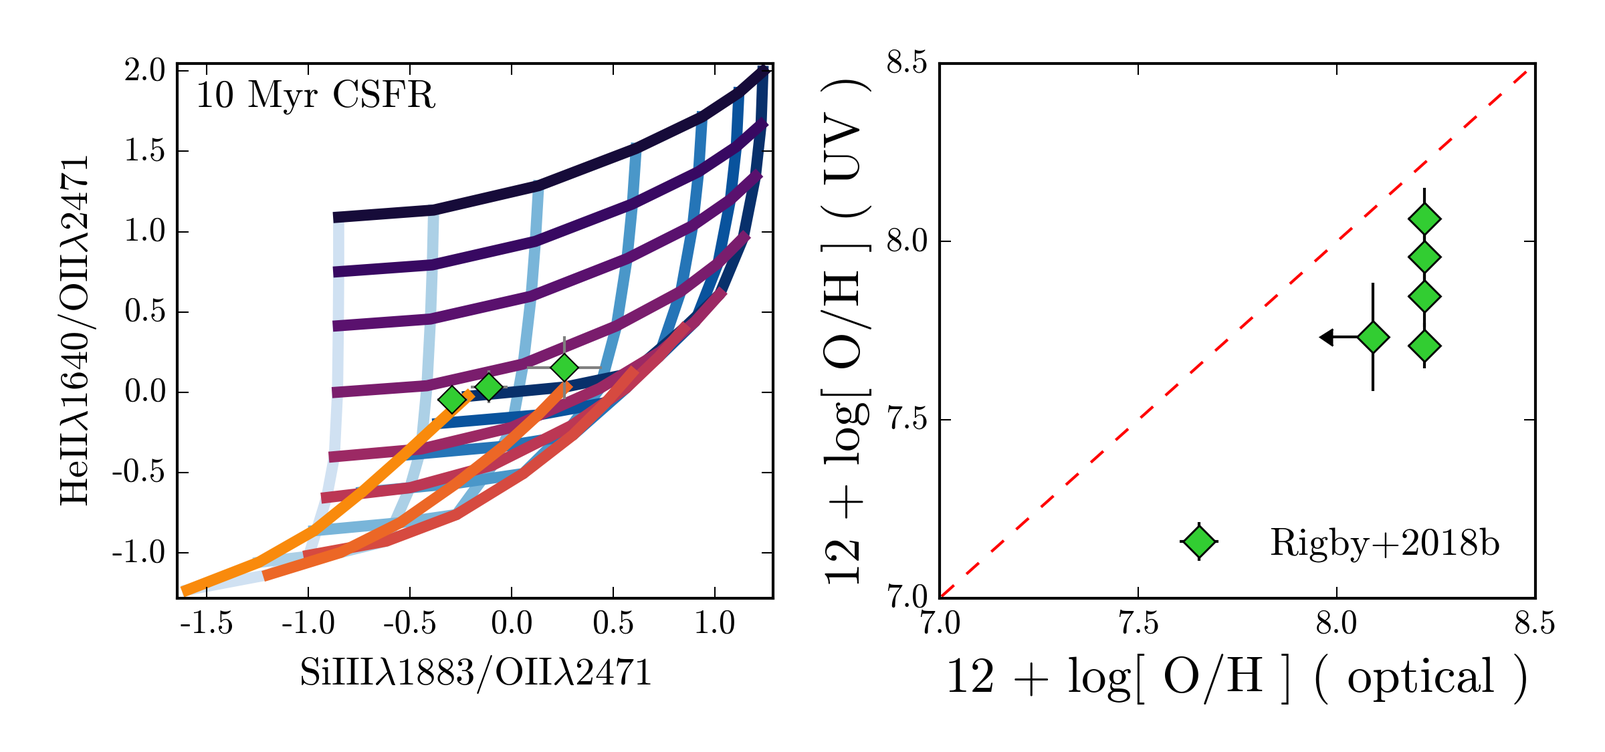
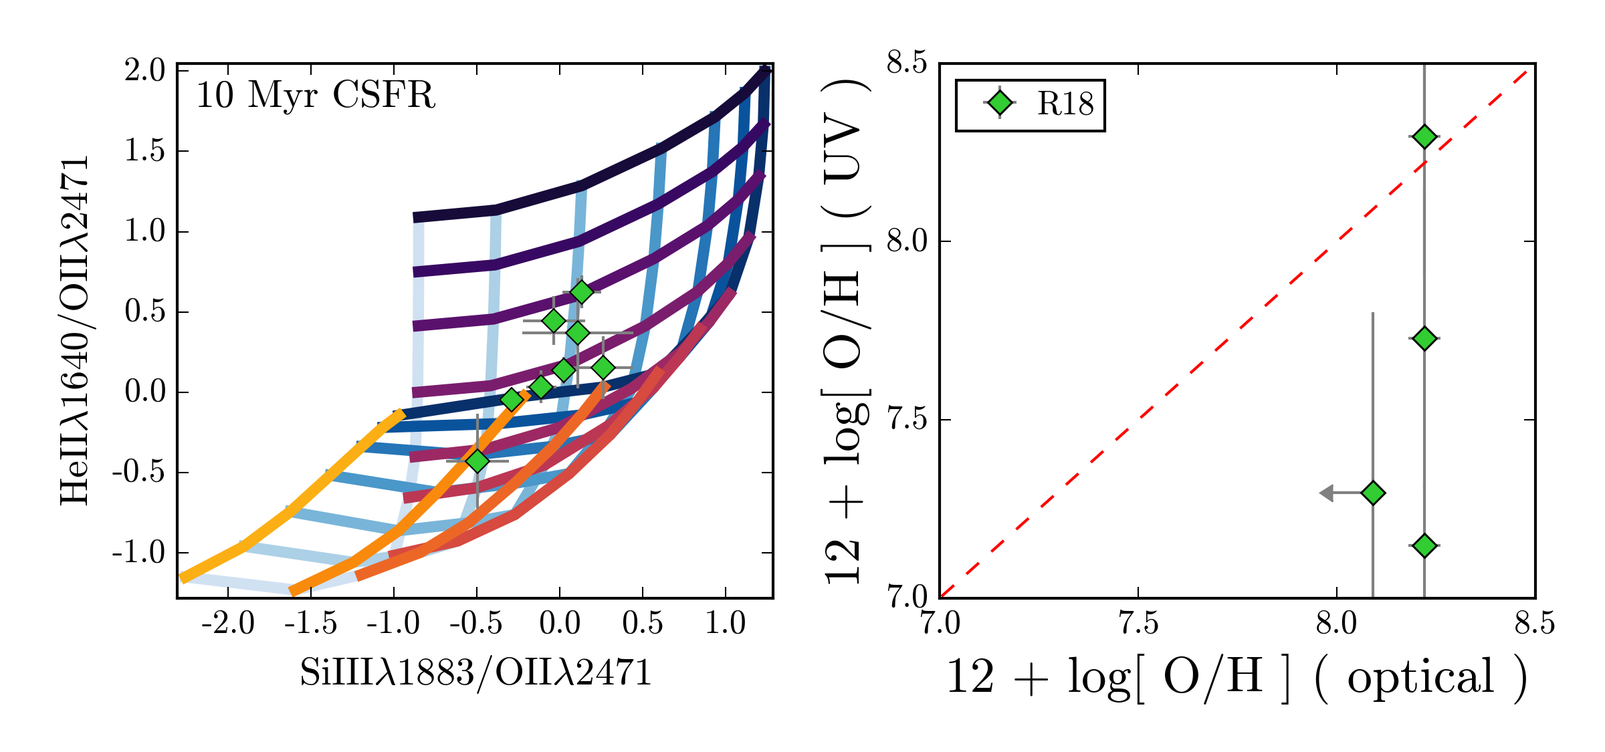
Updates from ShareLaTeX

diff --git a/main.tex b/main.tex
@@ -146,6 +146,7 @@ We use the MESA Isochrones \& Stellar Tracks \citep[MIST;][]{Dotter+2016, Choi+2
 We combine the MIST tracks with a high resolution theoretical spectral library (C3K; Conroy, Kurucz, Cargile, Castelli, \emph{in prep}) based on Kurucz stellar atmosphere and spectral synthesis routines \citep[ATLAS12 and SYNTHE,][]{Kurucz+2005}. The C3K library is supplemented with alternative libraries for very hot stars and stars in rapidly evolving evolutionary phases. For main sequence stars with temperatures above 25,000$\,$K (O- and B-type stars) we use spectra from M. Ng, G. Taylor \& J.J. Eldridge (priv. comm),  as described in \citet{Eldridge+2017}, computed using WM-Basic \citep{Pauldrach+2001}. For WR stars, we use the spectral library from \citet{Smith+2002} using CMFGEN \citep{Hillier+2001}.
 
 We adopt a Kroupa initial mass function \citep[IMF;][]{Kroupa+2001} with an upper and lower mass limit of 120\Msun and 0.08\Msun, respectively. For all other SPS parameters, we use the default parameters in \FSPS\footnote{GitHub commit hash \texttt{4e1b3f5}}.
+% obtained with command: git rev-parse --short HEAD
 
 \subsection{Nebular Model} \label{sec:model:neb}
 
@@ -237,7 +238,7 @@ assuming a negligible contribution from O$^{+++}$ ions, which is appropriate at 
 \paragraph{Direct-\Te metallicities in the UV}
 The direct-temperature method relies on the use of collisionally excited transitions with a difference in energy of order $k T_{e}$. The two transitions are populated by electron-ion collisions, and the relative population in each energy level will thus depend directly on the electron temperature of the gas. In the optical, the temperature leverage comes from the combination of the ${}^1 \mathrm{S}_0$ to ${}^1 \mathrm{D}_2$ transition ($\lambda$4363) with the  ${}^1 \mathrm{D}_2$ to ${}^3 \mathrm{P}_2$ ($\lambda$5007) transition (often with the addition of the ${}^1\mathrm{D}_2$ to $^3\mathrm{P}_1$ transition at $\lambda$4959).
 
-Similar transitions exist in the UV portion of the spectrum, making it possible to derive direct method metallicities using only UV emission lines. In the UV the temperature leverage comes from the combination of the ${}^5 \mathrm{S}_2 \rightarrow {}^3 \mathrm{P}_2$ ($\lambda$1666) and the ${}^1 \mathrm{S}_0 \rightarrow {}^3 \mathrm{P}_1$ ($\lambda$2321) transition. For the O$^{+}$ zone, the temperature-sensitive transitions are the ${}^2 \mathrm{P}_{1/2} \rightarrow {}^4 \mathrm{S}_{3/2}$ ($\lambda$2471) and the ${}^2 \mathrm{D}_{3/2} \rightarrow {}^4 \mathrm{S}_{3/2}$ ($\lambda$3727) transition. It is worth noting that the the \oii$\,\lambda2471$ and \oiii$\,\lambda2321$ lines are very weak (\XXX $<{\sim}10$\% of the $\lambda$3727 line strength), and have only been detected in a handful of galaxies.
+Similar transitions exist in the UV portion of the spectrum, making it possible to derive direct method metallicities using only UV emission lines. In the UV the temperature leverage comes from the combination of the ${}^5 \mathrm{S}_2 \rightarrow {}^3 \mathrm{P}_2$ ($\lambda$1666) and the ${}^1 \mathrm{S}_0 \rightarrow {}^3 \mathrm{P}_1$ ($\lambda$2321) transition. For the O$^{+}$ zone, the temperature-sensitive transitions are the ${}^2 \mathrm{P}_{1/2} \rightarrow {}^4 \mathrm{S}_{3/2}$ ($\lambda$2471) and the ${}^2 \mathrm{D}_{3/2} \rightarrow {}^4 \mathrm{S}_{3/2}$ ($\lambda$3727) transition. It is worth noting that the the \oii$\,\lambda2471$ and \oiii$\,\lambda2321$ lines are very weak (\oii$\,\lambda2471$ is ${\sim}6$\% of the \oii$\lambda$3727 line strength and \oiii$\,\lambda2321$ is ${\sim}2$\% of the \oiii$\lambda$4959 line strength), and have only been detected in a handful of galaxies.
 
 Using the same methodology as for the optical direct-temperature method, we must find temperatures and densities for the O$^{+}$ and O$^{++}$ zones. There are a number of density-sensitive line combinations in the UV, however, the brightest line combinations, \ciii$\lambda$1906,1909 and \SiuIII$\lambda$1883,1892 are not sensitive to densities below $\sim10^3\,$cm$^{-3}$. We assume $n_{\mathrm{e}} = 100$ cm$^{-3}$, the true density of the \Cloudy models. We note, however, that the use of densities calculated from \ciii and \SiuIII ratios changes the resultant oxygen abundance by less than 0.1 dex, and is thus not a significant source of error.
 
@@ -306,9 +307,11 @@ We compare our UV and optical models to two observational samples: (1) local gal
 
 \subsection{Local blue compact dwarf galaxies}\label{sec:data:BCDs}
 
-\citet{Berg+2016} presented both UV and optical spectra for a sample of 7 nearby, low-metallicity, high-ionization blue compact dwarf galaxies (BCDs). We include 13 additional galaxies from the upcoming Berg et al., 2018 (\emph{in prep}, priv. comm.) paper. The galaxies are nearby ($0.003 < z < 0.040$), UV-bright ($m_{FUV} \leq 19.5$ AB), compact (D $< 5$''), and low-metallicity ($7.2 \leq 12 + \log(O/H) \leq 8.0$). These galaxies have relatively low masses (${\sim}10^7$\Msun) and high sSFRs (${\sim}10^{-8}$ yr$^{-1}$). All of the galaxies in the sample have existing SDSS optical spectra with auroral line detections for direct-method calculations of the nebular temperature, density, and metallicity.
+\citet{Berg+2016} presented both UV and optical spectra for a sample of 7 nearby, low-metallicity, high-ionization blue compact dwarf galaxies (BCDs). We include 13 additional galaxies from the upcoming Berg et al., 2018 (\emph{in prep}, priv. comm.) paper. The galaxies are nearby ($0.003 < z < 0.040$), UV-bright ($m_{FUV} \leq 19.5$ AB), compact (D $< 5$''), and low-metallicity ($7.2 \leq 12 + \logOH \leq 8.0$). These galaxies have relatively low masses (${\sim}10^7$\Msun) and high sSFRs (${\sim}10^{-8}$ yr$^{-1}$). All of the galaxies in the sample have existing SDSS optical spectra with auroral line detections for direct-method calculations of the nebular temperature, density, and metallicity.
 
 \citet{Berg+2016} obtained UV spectra with the Cosmic Origins Spectrograph (COS) on the Hubble Space Telescope (HST). The UV spectra cover roughly $1300-2000$\ang, and \citet{Berg+2016} includes emission line flux measurements for \civ$\lambda$1548,1551, \heii$\lambda$1640, \oiii$\lambda$1661,1666, \SiuIII$\lambda$1883,1892, and \ciii$\lambda$1906,1909.
+
+\paragraph{Other local BCD observations:} Where possible, we also compare our models to the sample of local BCDs from \citet{Senchyna+2017}, which have similar properties to the \citet{Berg+2016} galaxies. However, the COS observations used an alternative grating for increased spectral resolution at the expense of wavelength coverage. Thus, there are fewer emission lines observed in the \citet{Senchyna+2017} sample, but the higher spectral resolution allows for the separation of broad and narrow emission line components, when present.
 
 \subsection{High-redshift star-forming galaxies}\label{sec:data:mage}
 
@@ -320,6 +323,8 @@ The spectra cover the wavelength range ($3200 < \lambda < 8280$\ang in the obser
 Rest-frame optical spectra are available for 7 of the 15 galaxies, from Keck NIRSPEC \citep{Rigby+2011}, Keck OSIRIS \citep{Wuyts+2014} and HST/WFC3 \citep{Whitaker+2014}. Optical metallicity estimates for these seven galaxies are compiled in Table 2 of \citet{Rigby+2018b}. The metallicities are calculated from strong line methods, either the $R_{23}$ or O3N2 indices \citep{Pettini+2004} and corrected to the PP04-N2 system following \citet{Kewley+2008}. In several cases, the optical information only provides upper limits on the metallicity based on the \nii/\ha line ratio.
 
 Two of the \mage galaxies are suspected to harbor a low luminosity AGN (SGAS J224324.2 − 093508 and SGAS 003341.5 + 024217); we do not include these galaxies in our analysis, bringing the total number of objects in the high-redshift sample to $N=13$.
+
+\paragraph{Other observations of high redshift galaxies:} When possible, we also compare our models to the lensed galaxies from \citet{Stark+2014}, \citet{Erb+2010}, and \citet{Christensen+2012}. We include a comparison with the stacked spectrum of lensed galaxies from \citet{Steidel+2016}, however, we note that it is much more difficult to interpret the metallicity derived from a stacked spectrum.
 
 \subsubsection{Emission line measurements}
 
@@ -336,7 +341,7 @@ For each emission line flux, $f_{\mathrm{line}}$, we determine the significance 
 
 In this section, we present several UV diagnostic diagrams and use them to derive metallicities. We then compare these UV metallicities to optical metallicities and evaluate the utility of each diagnostic. Before discussing the results from the various diagnostic diagrams, we briefly describe the method used to derive metallicities from each diagnostic grid. 
 
-Each galaxy observations is matched to the surface of the model diagnostic grid by smoothly interpolating between model grid points in ionization parameter and metallicity. We use a Monte-Carlo method to calculate UV metallicities and errors. For each object we draw $N=1000$ samples from a gaussian distribution centered at the observed $x$,$y$ coordinate with width equal to the reported errors, and re-measure the metallicity at each of these new coordinates. We use the median and the standard deviation of the metallicity distribution to estimate the metallicity and error in metallicity for each object, respectively. 
+Each galaxy observation is matched to the surface of the model diagnostic grid by smoothly interpolating between model grid points in ionization parameter and metallicity. We use a Monte-Carlo method to calculate UV metallicities and errors. For each object we draw $N=1000$ samples from a gaussian distribution centered at the observed $x$,$y$ coordinate with width equal to the reported errors, and re-measure the metallicity at each of these new coordinates. We use the median and the standard deviation of the metallicity distribution to estimate the metallicity and error in metallicity for each object, respectively. 
 
 This metallicity corresponds to the absolute gas phase abundance from \Cloudy, which must be rescaled before it can be accurately compared to the optical metallicity. For the \citet{Berg+2016} galaxies with optical direct-\Te metallicities, we apply the direct-\Te correction described in \S\ref{sec:model:corr}. For the \mage galaxies with optical metallicities calculated from empirically calibrated strong line methods, we apply the relevant strong line correction described in \S\ref{sec:model:corr}. In general, the metallicity correction changes the UV-derived abundance by $<0.1$\,dex at $12 + \logOH < 8$, and by ${\sim}0.1$\,dex at $8.0 < 12 + \logOH < 8.5$.
 
@@ -348,17 +353,15 @@ In the left panel of Fig.~\ref{fig:UVC} we show the Si3C3-O3C3 diagnostic diagra
 
 We use the Si3C3-O3C3 diagnostic grid to derive UV metallicities, which we compare to the optical metallicities in the right panel of Fig.~\ref{fig:UVC}. The optically-derived direct-\Te metallicity from \citet{Berg+2016} is shown on the $x$-axis, and the UV metallicity derived using the Si3C3-O3C3 is shown on the $y$-axis. For the \mage galaxies, the $x$-axis shows the optical metallicity from O3N3 or $R_{23}$.
 
-The UV and optical metallicities agree within error for ${\sim}60\%$ of the \citet{Berg+2016} galaxies. While the UV-predicted metallicities are largely consistent with the optical, the range in UV metallicities is much larger than the range in optical metallicities. Additionally, there are several objects where the UV metallicity catastrophically fails to match the optical metallicity. These failures do not seem to have an overall bias toward higher or lower metallicities.
+The UV and optical metallicities agree within error for ${\sim}80\%$ of the \citet{Berg+2016} galaxies. While the UV-predicted metallicities are largely consistent with the optical, the range in UV metallicities is much larger than the range in optical metallicities. Additionally, there are several objects where the UV metallicity catastrophically fails to match the optical metallicity. These failures do not seem to have an overall bias toward higher or lower metallicities.
 
-%\ciii$\lambda$1906,1907 are collisionally excited lines, and are well known to be sensitive to temperature and ionization parameter \citep{Jaskot+2016}. The \ciii lines are strongest at high electron temperatures, typically associated with low-metallicity gas, and are strongest at high ionization parameter. The \ciii lines are commonly used to determine the relative abundance of carbon to oxygen, which can vary from galaxy to galaxy \citep{Berg+2016}.
 %-------------------------------------------------------
 % Figure 3:
 %-------------------------------------------------------
 \begin{figure*}
   \begin{center}
     \includegraphics[width=\linewidth]{figs/f3.png}
-    %\includegraphics[width=0.45\linewidth]{figs/f2b.png}
-    \caption{\emph{left} UV diagnostic diagram presented in \citet{Byler+2018}, comparing emission line ratio (\oiii$\lambda$1666 / \ciii$\lambda$1906) with emission line ratio \SiuIII$\lambda$1883 / \ciii$\lambda$1906. The blue lines connect models of constant ionization parameter, from \logUeq{-1} (dark blue) to \logUeq{-4} (light blue). Models of constant metallicity are shown from \logZeq{-2} (purple) to \logZeq{0} (orange).  The gold circles are the sample of local BCDs from \citet{Berg+2016}. The grey squares show high-redshift galaxies from \citet{Stark+2014}, while the green squares show the high-redshift galaxies from \citet{Rigby+2018b}. \emph{Left:} Metallicity derived using the Si3C3 / O3C3 UV diagnostic compared to the optical metallicity. The dashed line shows a one-to-one correlation.}
+    \caption{\emph{Left:} UV diagnostic diagram presented in \citet{Byler+2018}, comparing emission line ratio \oiii$\lambda$1666 / \ciii$\lambda$1906 with \SiuIII$\lambda$1883 / \ciii$\lambda$1906. The blue lines connect models of constant ionization parameter, from \logUeq{-1} (dark blue) to \logUeq{-4} (light blue). Models of constant metallicity are shown from \logZeq{-2} (purple) to \logZeq{0} (orange). \emph{Right:} Metallicity derived using the Si3C3 / O3C3 UV diagnostic (right) compared to the optical metallicity. The dashed line shows a one-to-one relationship. In both panels, the gold circles are the sample of local BCDs from \citet{Berg+2016}. The grey squares are high-redshift galaxies from \citet{Stark+2014}, the green diamonds are high-redshift galaxies from \citet{Rigby+2018b}, and the turquoise square is a high-redshift galaxy from \citet{Berg+2018}. The pink star is the stacked spectrum of high-redshift galaxies from \citet{Steidel+2016}.}
     \label{fig:UVC}
   \end{center}
 \end{figure*}
@@ -366,13 +369,11 @@ The UV and optical metallicities agree within error for ${\sim}60\%$ of the \cit
 
 \subsection{Diagnostics using \heii$\lambda$1640}\label{sec:UVOpt:He}
 
-\heii$\lambda$1640 has been detected in both local and high-redshift galaxies and is one of the brighter UV emission lines, making it another desirable line to use in a metallicity diagnostic. The \heii$\lambda$1640 line has been used in several proposed emission line diagnostics \citep[e.g.,][]{Jaskot+2016, Feltre+2016}, including the He2C3-O3C3 diagnostic presented in \citet{Byler+2018}, which uses the \heii$\lambda$1640, \ciii$\lambda$1906, and \oiii$\lambda$1666 emission lines. We did note, however, that observations of \heii$\lambda$1640 emission can include contributions from both nebular emission and stellar wind emission, making it difficult to interpret and a potentially problematic metallicity tracer.
+\heii$\lambda$1640 emission has been detected in both local and high-redshift galaxies and is one of the brighter UV emission lines, making it another desirable line to use in a metallicity diagnostic. The \heii$\lambda$1640 line has been used in several proposed emission line diagnostics \citep[e.g.,][]{Jaskot+2016, Feltre+2016}, including the He2C3-O3C3 diagnostic presented in \citet{Byler+2018}, which uses the \heii$\lambda$1640, \ciii$\lambda$1906, and \oiii$\lambda$1666 emission lines. In \citet{Byler+2018}, however, we did note that observations of \heii$\lambda$1640 emission can include contributions from both nebular emission and stellar wind emission, making it a potentially problematic metallicity tracer.
 
-After we encountered issues with the UV metallicities derived with diagnostics including \ciii, we were motivated to find a a diagnostic that included \heii$\lambda$1640 but not \ciii. We present the \heii$\lambda$1640/\oii$\lambda$2471 \vs \SiuII$\lambda$1531/\SiuIII$\lambda$1883 diagnostic diagram (He2O2-Si2Si3), which has not been previously published. Unfortunately, we can only compare this diagnostic to the \mage galaxies, since the \oii$\lambda$2471 and \SiuII$\lambda$1531 lines were not observed in the \citet{Berg+2016} sample.
+In the left panel of Fig.~\ref{fig:UVHe} we show the He2C3-O3C3 diagram and show that the model grid is able to reproduce the range of observed emission line ratios. The right panel of Fig.~\ref{fig:UVHe} compares the UV metallicities with the optical metallicities. Fig.~\ref{fig:UVHe} shows that the UV and optical metallicities are in most of the comparison sample. In general, the disagreement between the UV and optical metallicities is much smaller than in Fig.~\ref{fig:UVC}, with consistent UV and optical metallicities in most of the observed galaxies. However, the UV metallicities are biased to systematically lower metallicities in the \mage galaxies (green diamonds) by as much as 1\,dex in the \mage galaxies, with little correlation with optical metallicity.
 
-In the top row of Fig.~\ref{fig:UVHe} we show the He2C3-O3C3 diagram (left) and the He2O2-Si2Si3 diagram (right).  The model grids are able to reproduce the range of observed emission line ratios in both diagrams.
-
-The bottom row of Fig.~\ref{fig:UVHe} compares the UV metallicities with the optical metallicities for each of the diagnostic diagrams. In both figures, the UV metallicities are not well-matched to the optical metallicities, with marginally consistent values present in only two of the 17 objects shown. In general, the disagreement between the UV and optical metallicities is much larger than in Fig.~\ref{fig:UVC}, and the UV metallicities are biased to systematically lower metallicities by as much as 1\,dex. Moreover, the UV metallicities are seemingly uncorrelated with the optical metallicities.
+Broad \heii emission in galaxies is commonly interpreted as an indication of the presence of W-R stars \citep[e.g., ][]{Kunth+1985,Conti+1991, Schaerer+1999, Brinchmann+2008}. W-R stars are more common in metal-rich stellar populations ($12+\logOH \gtrsim 8$), with the strongest \heii emission associated with populations at solar metallicity or higher. Most of the objects in the \citet{Berg+2016} BCD sample have low enough metallicities that the contribution from stellar emission should be small (${\sim}$25\% of the nebular emission flux), however, broad \heii$4686\ang$ emission is detected in a handful of objects. We expect that any contamination from stellar \heii emission would be worse in the \mage galaxies, because these galaxies have metallicities near solar or higher.
 
 We discuss the issues associated with diagnostics that use \civ, \ciii, or \heii emission lines at length in \S\ref{sec:discussion}.
 
@@ -382,11 +383,27 @@ We discuss the issues associated with diagnostics that use \civ, \ciii, or \heii
 \begin{figure*}
   \begin{center}
     \includegraphics[width=\linewidth]{figs/f4.png}
-    \includegraphics[width=\linewidth]{figs/f4b.png}
-    %\includegraphics[width=0.45\linewidth]{figs/f3c.png}
-    %\includegraphics[width=0.45\linewidth]{figs/f3d.png}
-    \caption{\emph{Top row} UV diagnostic diagrams that include the \heii$\lambda$1640 emission line: He2C3 / O3C3 (left) and He2O2 / Si2Si3 (right).  The blue lines connect models of constant ionization parameter, from \logUeq{-1} (dark blue) to \logUeq{-4} (light blue). Models of constant metallicity are shown from \logZeq{-2} (purple) to \logZeq{0} (orange).  The gold circles are the sample of local BCDs from \citet{Berg+2016}. The grey squares show high-redshift galaxies from \citet{Stark+2014}, while the green squares show the high-redshift galaxies from \citet{Rigby+2018b}. \emph{Bottom Row:} Metallicities predicted by the UV diagnostics He3C3/O3C3 (left) and He2O2 / Si2Si3 (right). The dashed line shows a one-to-one correlation. Metallicity predictions from UV diagnostics that include \heii$\lambda$1640 line are not well correlated with optical metallicities and are systematically under predicted.}
+    \caption{\emph{Left:} The He2C3 / O3C3 diagnostic diagram.  The blue lines connect models of constant ionization parameter, from \logUeq{-1} (dark blue) to \logUeq{-4} (light blue). Models of constant metallicity are shown from \logZeq{-2} (purple) to \logZeq{0} (orange). The gold and red circles are the sample of local BCDs from \citet{Berg+2016} and \citet{Senchyna+2017}, respectively. The grey squares show high-redshift galaxies from \citet{Stark+2014} and the green squares show the high-redshift galaxies from \citet{Rigby+2018b}. The blue square is the high redshift galaxy from \citet{Erb+2010}, and the cyan square is the high redshift galaxy from \citet{Berg+2018}. \emph{Right:} Metallicities predicted by the He3C3 / O3C3 diagnostic compared to optically-derived metallicities. The dashed line shows a one-to-one relationship. The UV and optical metallicities are correlated for most of the galaxies, particularly the metal-poor local BCD galaxies. For the comparitively metal-rich \mage galaxies, the UV diagnostic significantly underpredicts optical metallicities.}
     \label{fig:UVHe}
+  \end{center}
+\end{figure*}
+%-------------------------------------------------------
+
+\subsection{Diagnostics using \civ$\lambda$1548,1550}\label{sec:UVOpt:CIV}
+
+We show the \civ$1548,1550$\ang / \oiii$1666$\ang \vs \oiii$1666$\ang / \ciii$1906,1908$\ang (C4O3 - O3C3) diagnostic diagram in the left panel of Fig.~\ref{fig:UVCIV}. Most of the galaxies from the observational comparison sample have larger C4O3 ratios than predicted by the models. At the metallicities associated with the local BCD sample ($12+\logOH \sim 7.5-8$), the stellar+nebular \civ emission models from \citet{Byler+2018} predict that stellar contamination can change the C4O3 ratio by 0.1-0.3\,dex. Contamination from stellar emission is less of an issue for the galaxies from \citet{Senchyna+2017} (red points), since the higher spectral resolution of the observations allowed the authors to fit for both the broad and narrow \civ emission components. 
+We show the comparison between UV and optical metallicities for the C4O3-O3C3 diagnostic in the right panel of Fig.~\ref{fig:UVCIV}. Unsurprisingly, the mismatch between observed and model line ratios in the left panel of Fig.~\ref{fig:UVCIV} translates to poor agreement between the UV and optical metallicities in the right panel. For all objects, the UV metallicity is larger than the optical metallicity, by 0.1 to 0.7\,dex, and an average offset of 0.3\,dex. Only three objects have UV metallicities consistent with their optical estimates within the errors. There is some evidence for a metallicity-dependent offset, where the metal-rich objects show somewhat more scatter. The \citet{Senchyna+2017} galaxies show the smallest offset, potentially due to the fact that the C4 emission line fluxes are ``nebular only''. More generally, the C4O3-O3C3 emission line ratios seem to be a poor metallicity diagnostic.
+
+We note the absence of the \mage galaxies in Fig.~\ref{fig:UVCIV}. Inspection of the \civ emission feature in these comparatively metal-rich objects revealed strong stellar emission with the signature P-Cygni profile, with little or no evidence for nebular emission. 
+
+%-------------------------------------------------------
+% Figure 5:
+%-------------------------------------------------------
+\begin{figure*}
+  \begin{center}
+    \includegraphics[width=\linewidth]{figs/af4.png}
+    \caption{\emph{Left:} The C4O3 / O3C3 diagnostic diagram. The blue lines connect models of constant ionization parameter, from \logUeq{-1} (dark blue) to \logUeq{-4} (light blue). Models of constant metallicity are shown from \logZeq{-2} (purple) to \logZeq{0} (orange). The gold and red circles are the sample of local BCDs from \citet{Berg+2016} and \citet{Senchyna+2017}, respectively. The grey squares show high-redshift galaxies from \citet{Stark+2014} and the green squares show the high-redshift galaxies from \citet{Rigby+2018b}. The blue square is the high redshift galaxy from \citet{Christensen+2012}, and the cyan square is the high redshift galaxy from \citet{Berg+2018}. Many of the galaxies have CIVO3 ratios that are larger than predicted by the models, in many cases due to contamination from stellar wind emission in the \civ emission line. Harder ionizing spectra could also help explain the offset. \emph{Right:} Metallicities predicted by the C4O3 / O3C3 diagnostic compared to optically-derived metallicities. The dashed line shows a one-to-one relationship. The UV diagnostic predicts metallicities that are 0.3-0.5 dex larger than the optical metallicities.}
+    \label{fig:UVCIV}
   \end{center}
 \end{figure*}
 %-------------------------------------------------------
@@ -411,9 +428,6 @@ Our evaluation of the diagnostics from Table~\XXX will proceed along two paths. 
 \begin{figure*}
   \begin{center}
     \includegraphics[width=\linewidth]{figs/f5.png}
-    %\includegraphics[width=0.45\linewidth]{figs/f4b.png}
-    %\includegraphics[width=0.45\linewidth]{figs/f4c.png}
-    %\includegraphics[width=0.45\linewidth]{figs/f4d.png}
     \caption{UV diagnostic diagrams using pairs of emission lines excluding carbon species and \heii$\lambda$1640.  The blue lines connect models of constant ionization parameter, from \logUeq{-1} (dark blue) to \logUeq{-4} (light blue). Models of constant metallicity are shown from \logZeq{-2} (purple) to \logZeq{0} (orange). The colored diamonds show the high-redshift galaxies from \citet{Rigby+2018b}. There are few galaxies where all four emission lines used in a given diagnostic diagram are observed in multiple objects. For galaxies that appear in multiple diagrams, the position in ionization parameter - metallicity space is roughly consistent between diagnostics.}
     \label{fig:UVSiO}
   \end{center}
@@ -500,11 +514,11 @@ Fig.~\ref{fig:UVmage} shows the "final" UV metallicity calculated for each of th
 
 \section{Discussion}\label{sec:discussion}
 
-In \S\ref{sec:UVOpt}, we found that that UV diagnostics using carbon emission lines (e.g., \ciii$\lambda$1906,1909, or \civ$\lambda$1548,1551) or the \heii$\lambda$1640 emission line were poor metallicity indicators. Specifically, metallicities derived using carbon or helium lines were often inconsistent with optical metallicities and in some cases, completely uncorrelated with optical metallicities. In this section we briefly discuss possible explanations for the problematic behavior.
+In \S\ref{sec:UVOpt}, we found that that several of the UV diagnostics were poor metallicity indicators. Specifically, metallicities derived using diagnostics with \civ, \ciii, \SiuIII, and \heii were often inconsistent with optical metallicities, and, in some cases, completely uncorrelated with optical metallicities. In this section we briefly discuss possible explanations for the problematic behavior.
 
 \subsection{Diagnostics with \ciii}
 
-The UV Si3C3-O3C3 diagnostic diagram was the only diagnostic presented in this work that uses the \ciii$\lambda$1906 emission line. Approximately 60\% of the metallicities derived with this diagnostic were consistent with the direct-\Te optical metallicity in the \citet{Berg+2016} sample of BCDs. However, the Si3C3-O3C3 diagnostic also predicted a much wider spread in metallicity than is found in the optical (1.2\,dex compared to 0.6\,dex). For several objects, the UV metallicity is entirely inconsistent with the optical metallicity, by several standard deviations.
+The UV Si3C3-O3C3 diagnostic diagram (Fig.~\ref{fig:UVSiO}) uses the \ciii$\lambda$1906,9 emission lines. Approximately 60\% of the metallicities derived with this diagnostic were consistent with the direct-\Te optical metallicity in the \citet{Berg+2016} sample of BCDs. However, the Si3C3-O3C3 diagnostic also predicted a much wider spread in metallicity than is found in the optical (1.2\,dex compared to 0.6\,dex). For several objects, the UV metallicity is entirely inconsistent with the optical metallicity, by several standard deviations.
 
 We discuss two possible explanations for the inconsistencies between the UV and optical metallicities, including C/O ratio variations and nebular temperature fluctuations.
 
@@ -534,10 +548,15 @@ Hotter nebulae produce stronger \ciii emission, which would decrease both the Si
   \end{center}
 \end{figure*}
 %-------------------------------------------------------
+\subsection{Diagnostics with \civ$\lambda$1550}
 
-\subsection{Diagnostics with \heii$\lambda$1640}.
+\civ emission is one of the more difficult spectral features to interpret, due to the competing effects of nebular emission at 1548 and 1550\ang, stellar wind emission at 1550\ang (often broad, with a strong P-Cygni profile) and interstellar absorption between 1540 and 1550\ang. Generally, the strength of the nebular \civ emission peaks at low metallicity ($12+\logOH \sim 7$) and high ionization parameter (\logU$>-2$). Stellar emission is wind-driven and strongest at higher metallicities, solar-like and above. However, even at $12+\logOH = 7.5$ (\logZ$\sim-1$), stellar \civ emission can account for as much as 30\% of the total \civ emission \citep{Byler+2018}.
 
-Out of all the diagnostics presented in this work, the UV diagnostics that included the \heii$\lambda$1640 line preformed the worst, predicting metallicities that were systematically 0.5-0.8\,dex lower than optical metallicities. The \heii metallicities were inconsistent with optical metallicities in all objects, and generally showed little correlation with the optical metallicities.
+Out of all the diagnostics presented in this work, the UV diagnostics that included the \civ$\lambda$1548,1550 lines preformed the worst, predicting metallicities that were systematically 0.2-0.6\,dex larger than optical metallicities. The \civ metallicities were inconsistent with optical metallicities in all objects, and showed only modest correlation with the optical metallicities.
+
+We note that the \civ$\lambda$1548,1550 lines in the \citet{Berg+2016} spectra are in fact broader than the other nebular emission lines, which is consistent with wind contamination. Similarly, it makes sense that the \citet{Senchyna+2017} observations showed the best agreement with model emission line ratios and optical metallicity estimates, since the \civ fluxes in these objects were effectively ``nebular only''. However, even the \citet{Senchyna+2017} observations show a 0.1 - 0.3\,dex offset between the UV and optical metallicities, demonstrating the difficulty in using \civ as a metallicity diagnostic, especially at high redshift, where different gas conditions may prevail.
+
+\subsection{Diagnostics with \heii$\lambda$1640}
 
 The source of strong \heii emission in high redshift galaxies is a subject of open debate, and \heii emission is difficult to produce with current stellar models. We discuss two possible sources for \heii metallicity discrepancies: the use of ionizing spectra that are too soft and contamination from stellar wind emission.
 
@@ -545,8 +564,11 @@ Significant nebular \heii emission requires high energy photons, and current ste
 
 \heii emission can also be produced in the winds of hot stars, which can be difficult to disentangle from the nebular emission without high resolution spectra. Current research suggests that only extreme, Wolf-Rayet (WR)-like stars should produce significant amounts \heii wind emission. These stars are short-lived and we do not expect them to dominate the \heii emission in all but extremely young star bursts.
 
-However, evolutionary models of these rapid stellar phases are still uncertain, in addition to the uncertainties associated with mass loss and wind models. In \citet{Byler+2018} we estimated that contamination from stellar winds to the nebular \civ emission could change predicted line ratios by as much as 0.5 dex, making them problematic choices for metallicity diagnostics.
+Despite these complications, the He2C3 - O3C3 yielded metallicity measurements that agreed quite well with those in the optical, especially at low metallicities ($12+\logOH \lesssim 8$) where we expect broad \heii emission to be less prevalent. The worst agreement was found with the \mage galaxies, where the UV predicted lower metallicities than the optical by 0.5-1.0\,dex. However, visual inspection of the \heii spectral features in these objects revealed broad line profiles, indicating that stellar contamination may be responsible for the mismatch between UV and optical metallicities.
 
+\subsection{Diagnostics with \SiuII, \SiuIII}
+
+\XXX finish here: Silicon emission lines proved to be fairly unreliable metallicity tracers. Causes: Depletion factors, ionization potential in very sensitive part of FUV ionizing spectrum, age sensitivity, SNe(?).
 
 %%%%%%%%%%%%%%%%%%%%%%%%%%%%%%%%%%%%%%%%%%%%%%%%%%%%%%%%%%%%%%%%%%%%%%%%%%%%%%%%
 %===============================================================================
@@ -555,7 +577,8 @@ However, evolutionary models of these rapid stellar phases are still uncertain, 
 \begin{enumerate}
     \item We have confirmed that UV and optical direct-temperature oxygen abundances agree within 0.1-0.2dex. The UV direct-\Te abundances are systematically lower than the optical-\Te abundances by 0.1 dex, which increases to a 0.2\,dex offset at solar and super-solar metallicities.
     \item UV metallicity diagnostics that include the \ciii$\lambda$1906,1909 emission lines do not reliably correlate with optical metallicities. We suggest that this is likely driven the presence of shock heated gas in addition to variations in C/O at fixed oxygen abundance.
-    \item UV diagnostics that include the \heii$\lambda$1640 emission line are also unreliable metallicity indicators. The discrepant abundances likely arise from the use of ionizing spectra that are not hard enough, and in some cases, contamination from stellar \heii emission.
+    \item UV diagnostics that include the \civ$\lambda$1548,1550 emission lines are unreliable metallicity indicators. We suggest that this is primarily driven by the contamination from stellar emission, though interpretation is further complicated by strong interstellar absorption just blueward of the emission feature. 
+    \item UV diagnostics that include the \heii$\lambda$1640 emission line are reliable metallicity indicators at metallicities below $12+\logOH \sim 8$. At higher metallicities ($12+\logOH \sim 8.5$), discrepant abundances likely arise from contamination by stellar \heii emission.
     \item UV diagnostics that consist of ratios of silicon, oxygen, and nitrogen emission lines spanning multiple ionization states provide the most reliable metallicity estimates, like \SiuII$\lambda$1307/\SiuII$\lambda$1531 \vs \oiii$\lambda$1666/\SiuIII$\lambda$1883. Other promising diagnostics include \SiuII$\lambda$1307/\oiii$\lambda$1666 \vs \SiuIII$\lambda$1883/\oii$\lambda$2471, \SiuII$\lambda$1307/\SiuII$\lambda$1531 \vs \niii$\lambda$1750/\SiuIII$\lambda$1883, and \SiuII$\lambda$1307/\SiuII$\lambda$1531 \vs \oii$\lambda$2471/\oiii$\lambda$1666.
     \item Using the \mage galaxy sample, we demonstrate that metallicities derived using the above diagnostics are consistent with optical metallicities derived using empirically calculated strong line indices. Additionally, the metallicities derived using these diagnostics are consistent with metallicities derived using other UV diagnostics.
     \item We have calculated UV metallicities for the \mage galaxies using a weighted average of the five diagnostics presented above.
